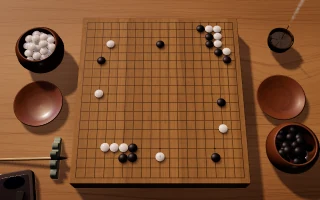
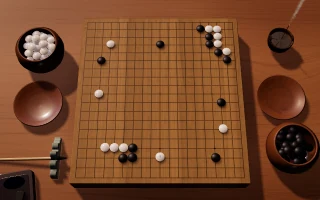
The scholar's pavilion's table is an older, deeper huanghuali, amber to reddish brown: the golden board now stands out from it in the seated view (its lit edge about 1.4 to 1.7 times as bright as the table beside it, instead of the same)

diff --git a/src/board3d/scenes/pavillon.ts b/src/board3d/scenes/pavillon.ts
@@ -13,13 +13,15 @@ const rng = (seed: number) => () => { seed = (seed + 0x6d2b79f5) | 0; let t = Ma
 const canvas = (w: number, h = w) => Object.assign(document.createElement('canvas'), { width: w, height: h })
 
 /**
- * Huanghuali: golden honey to light reddish brown, fine growth lines running along the board, a few "ghost faces"
+ * Huanghuali: amber honey to reddish brown, fine growth lines running along the board, a few "ghost faces"
  * (the swirling figure around knots the wood is prized for) and fine pores. Canvas strokes, wrapped so it tiles; the
  * waxed sheen is the material's (low roughness), not drawn. ~40 ms on this Mac.
  */
 /** The table's wood (variants A/B/C of the grid were rendered from these). */
 export interface Wood { tones: string[]; rough: number }
-export const WOOD: Wood = { tones: ['#a8834f', '#b38c57', '#9c7747', '#ae8752', '#a37d4b', '#b48d58', '#a8834f'], rough: 0.55 }
+// an older, deeper huanghuali (amber to reddish brown): the golden one matched the kaya, the board's lit far edge read 0.99–1.09×
+// the table's luminance; now 1.41–1.74× (seated view, every hour)
+export const WOOD: Wood = { tones: ['#93633a', '#9e6d40', '#885a33', '#99693d', '#8e5f37', '#a06f42', '#93633a'], rough: 0.55 }
 
 export function huanghuali(w: Wood = WOOD, seed = 9, S = 2048) {
   const W = S, H = S / 2, k = W / TILE[0], r = rng(seed), cv = canvas(W, H), x = cv.getContext('2d')!
